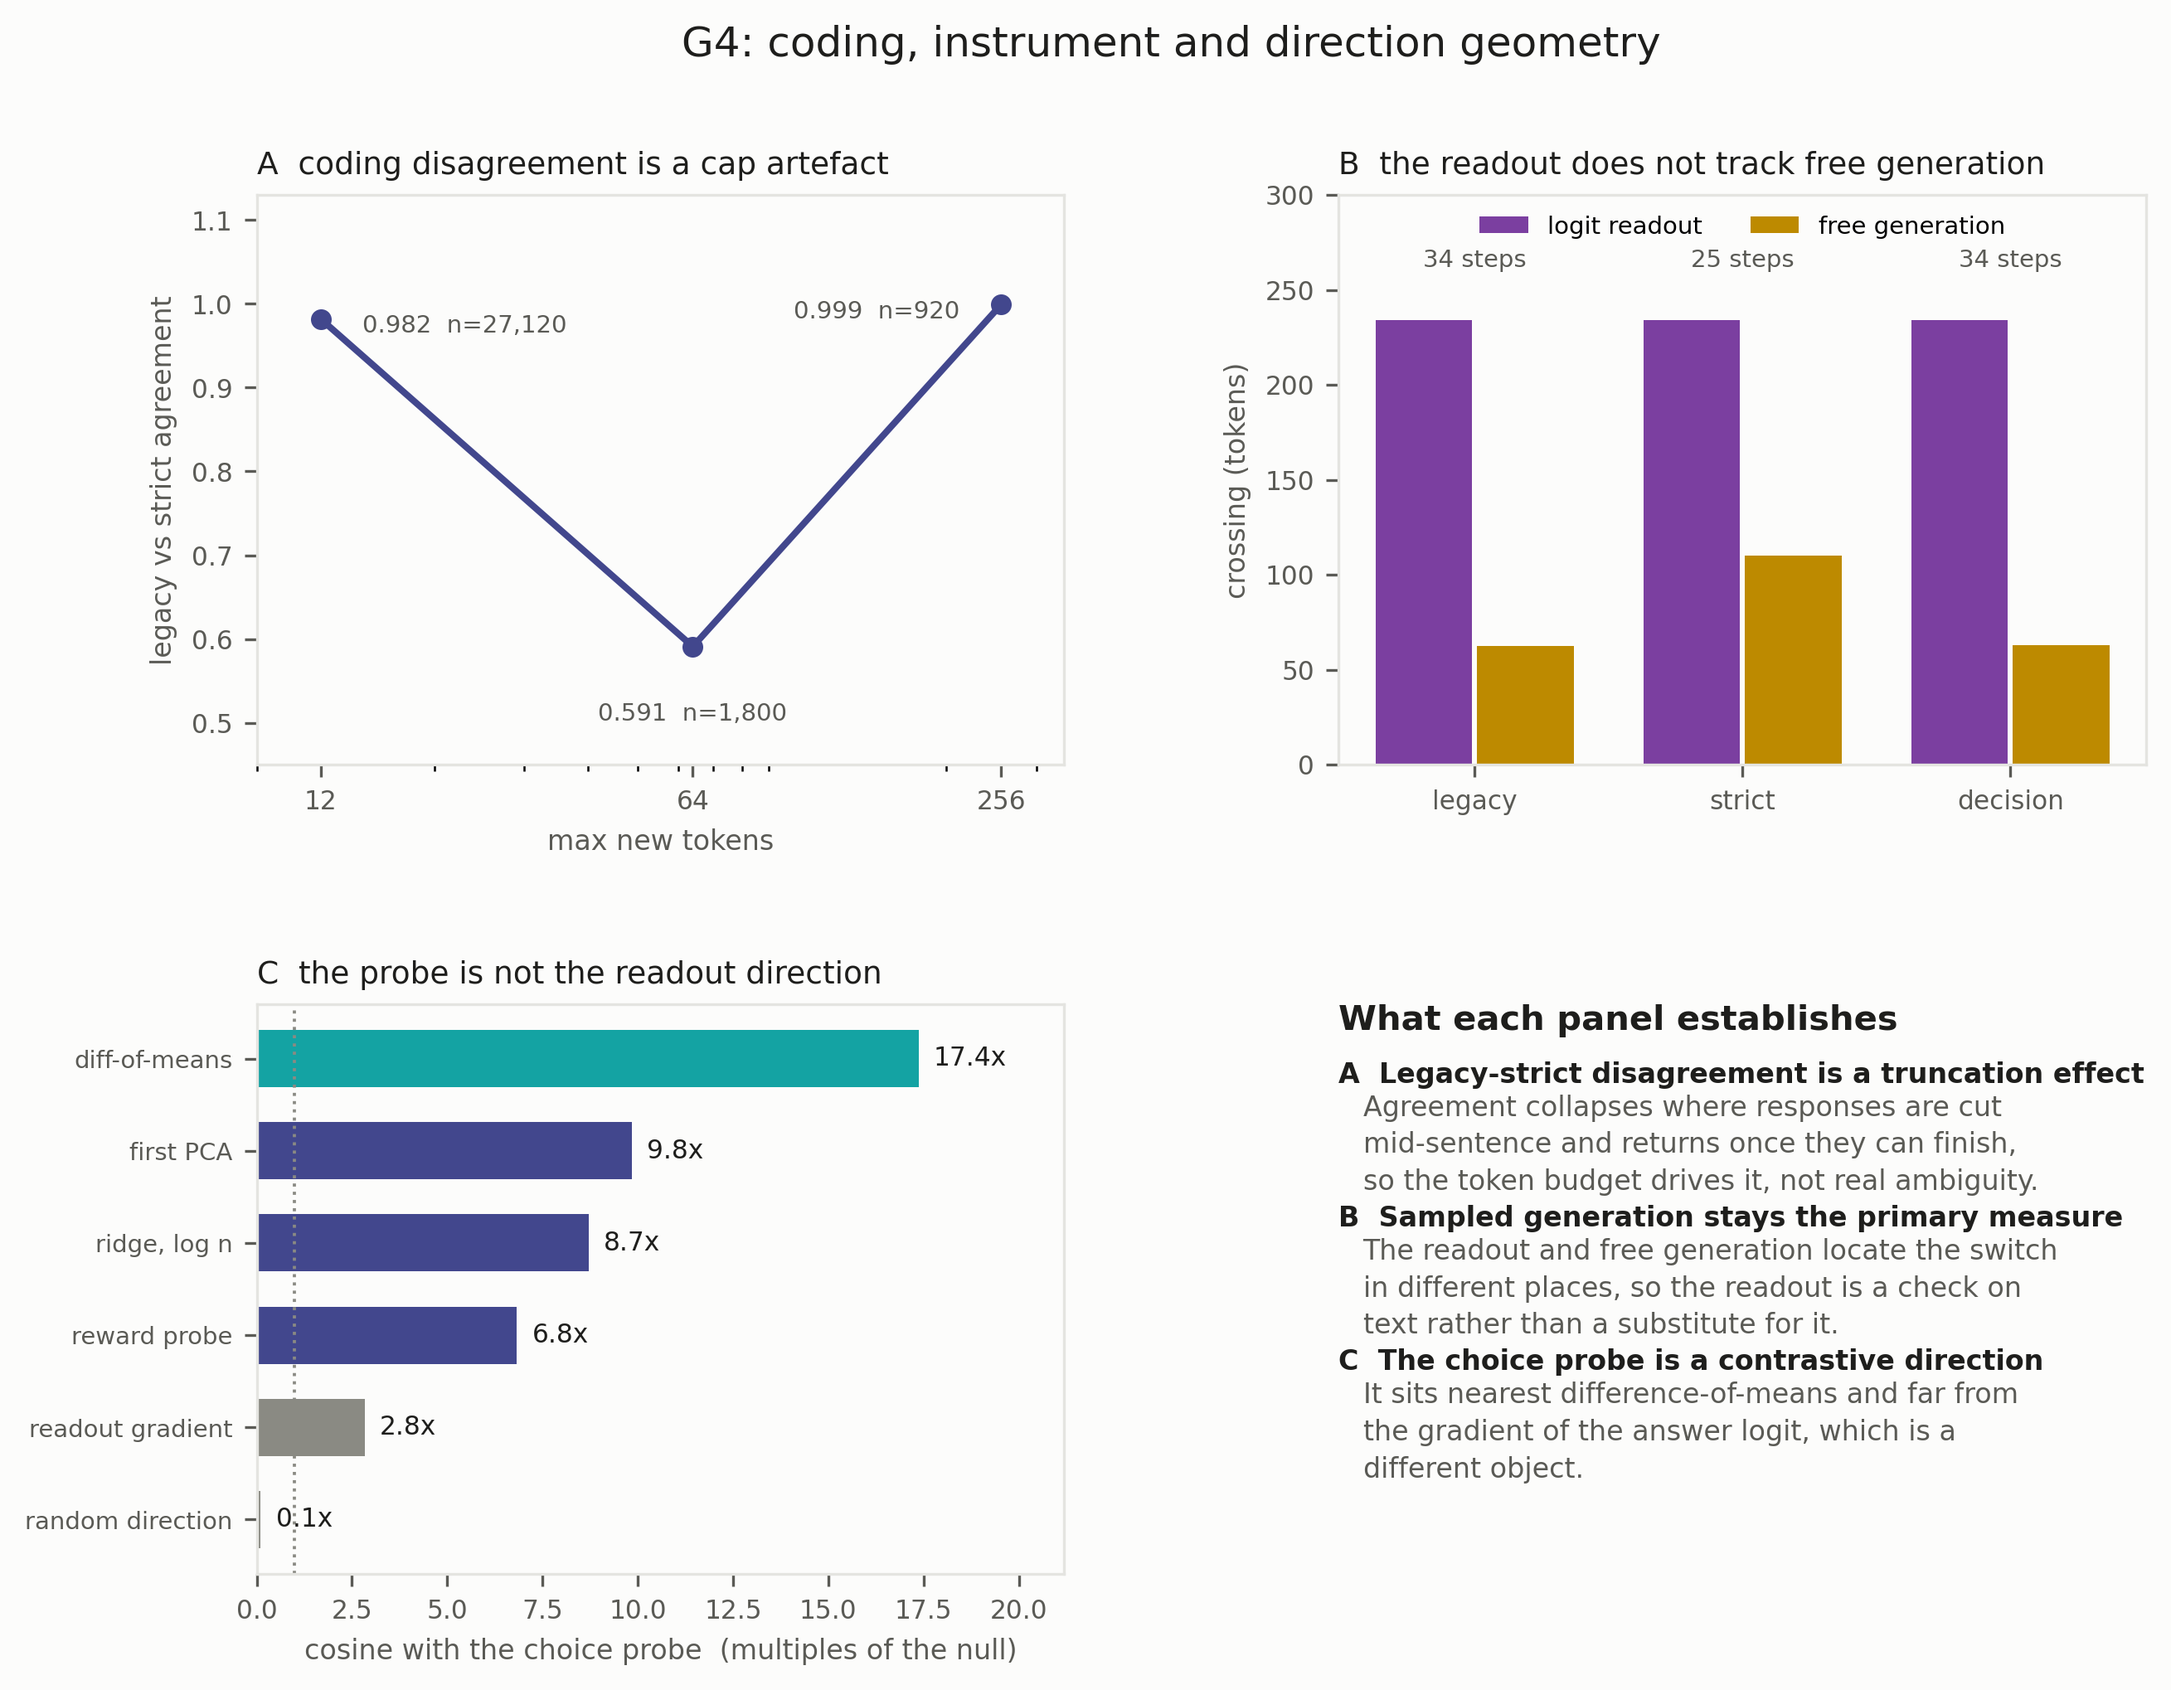
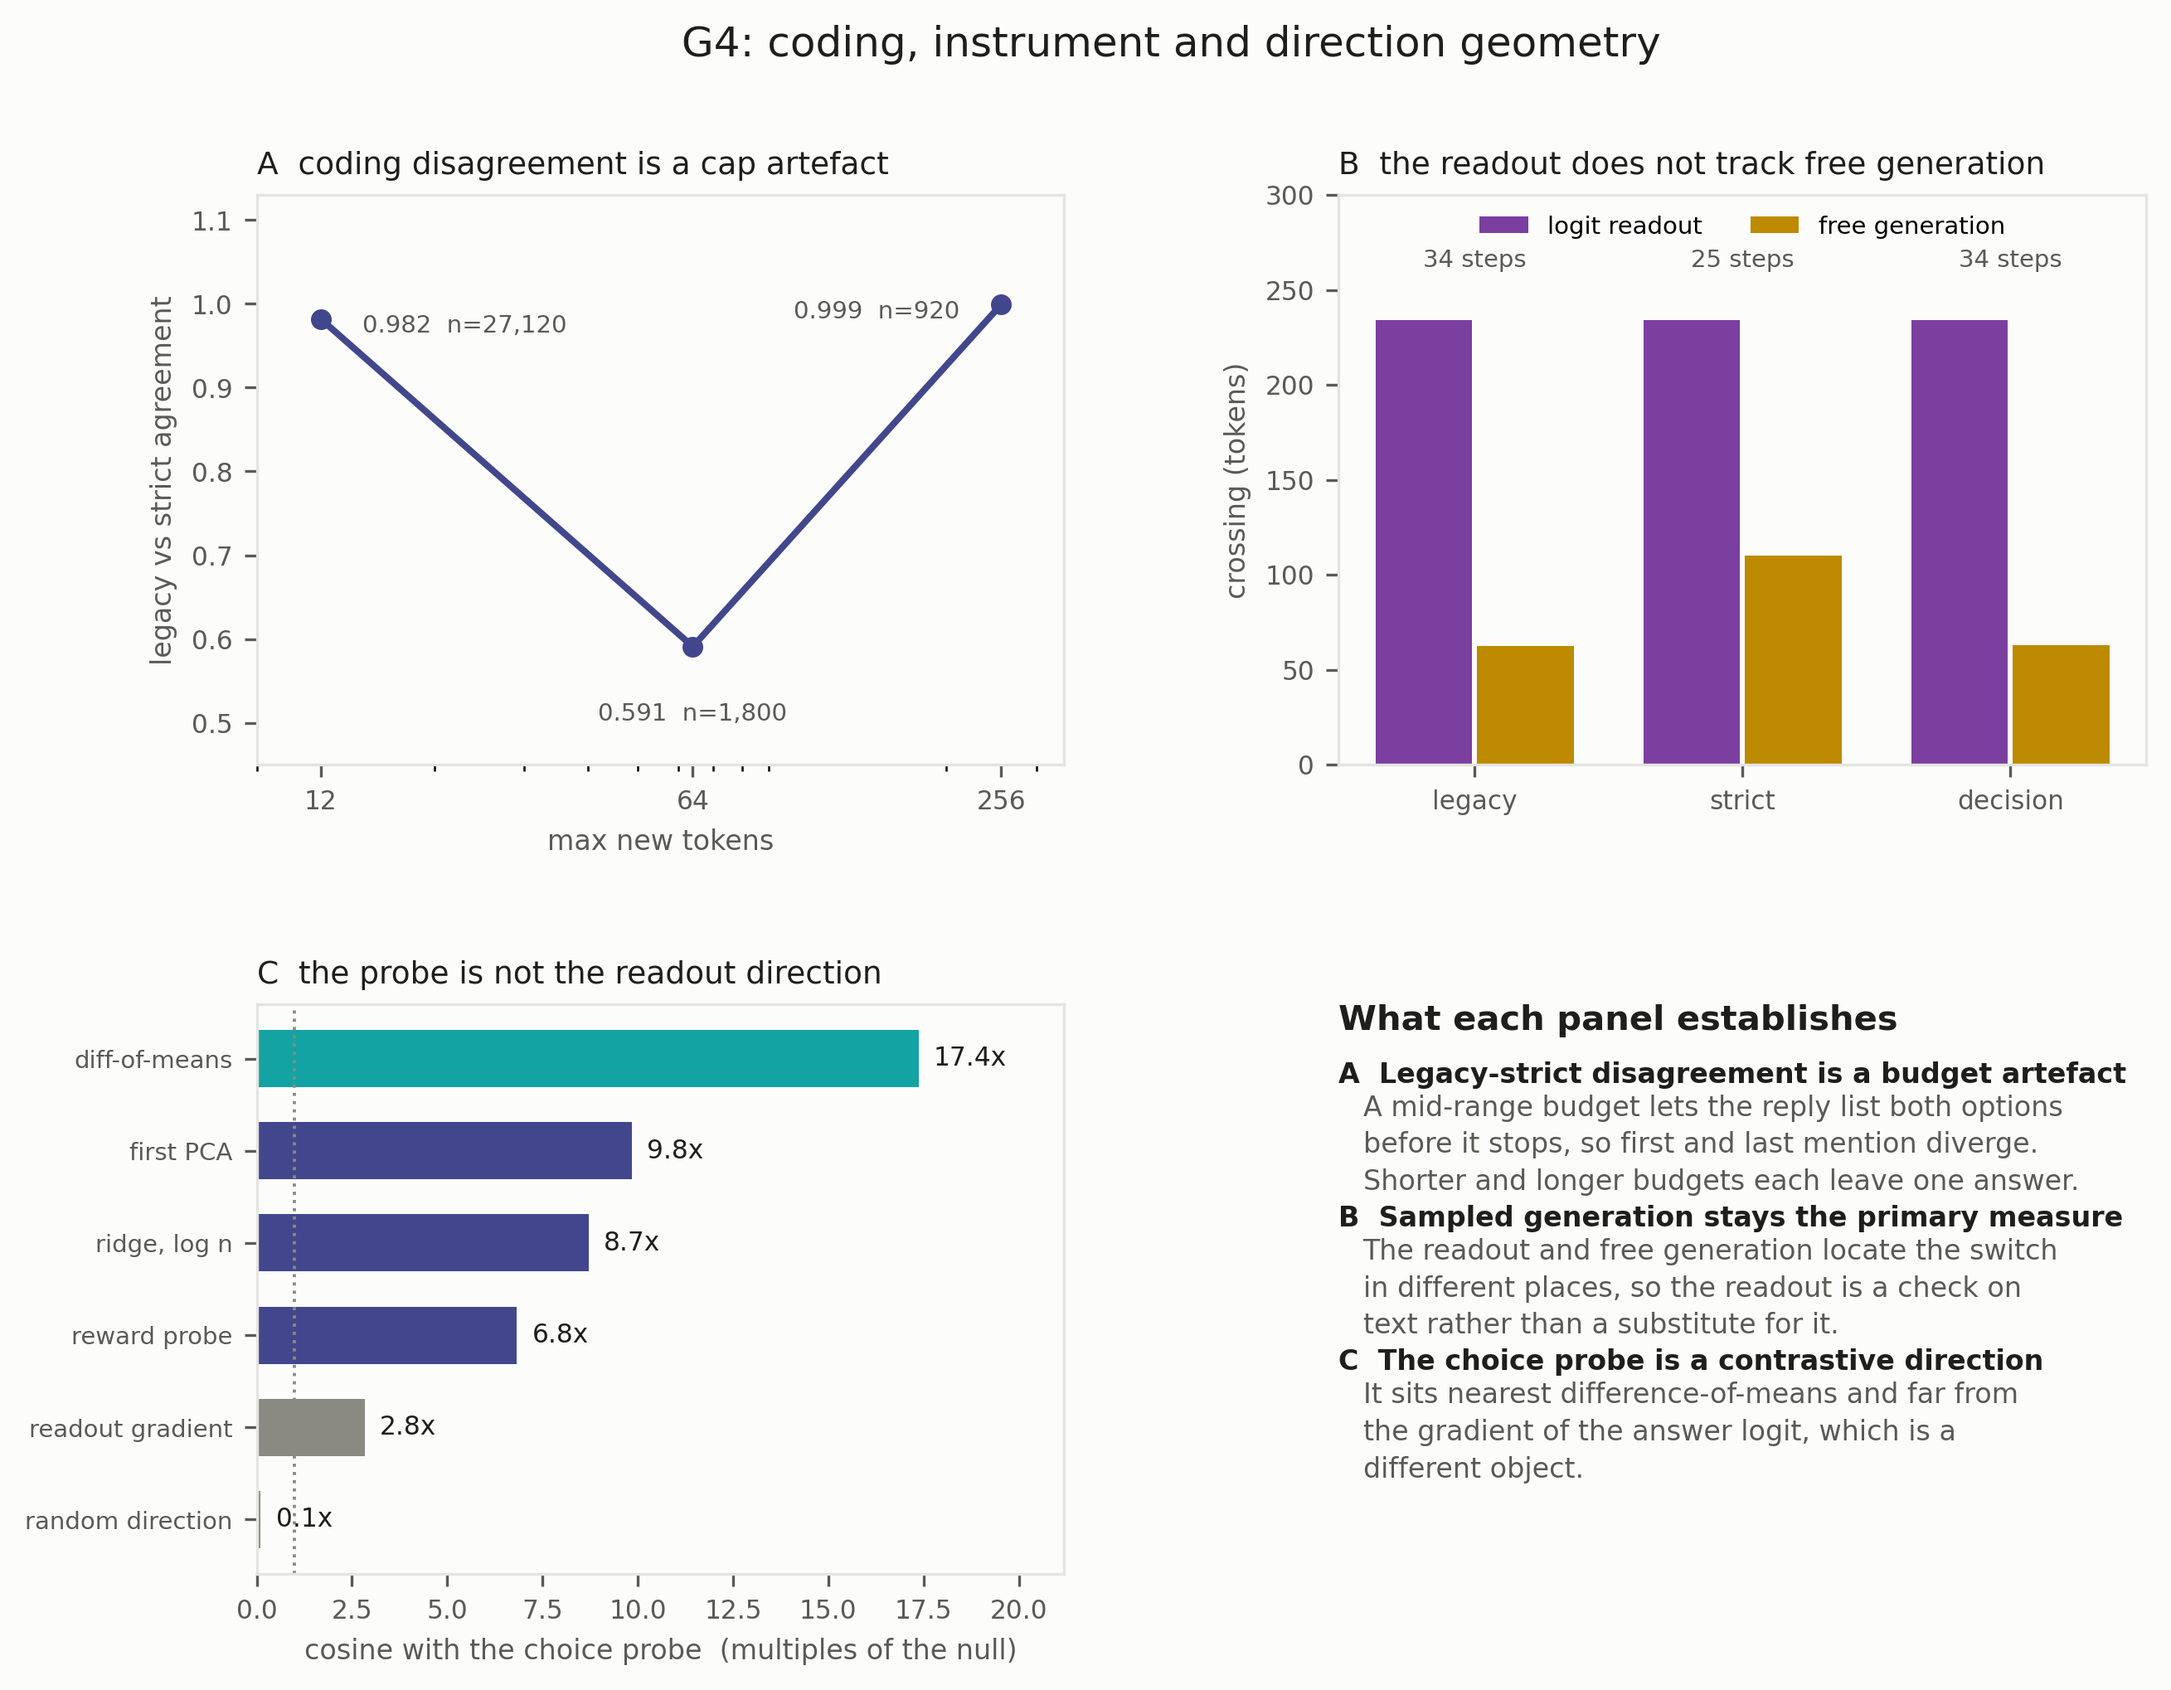
g4_summary panel A: note states the option-list mechanism, not truncation

Changed region(s): [[0.6188, 0.6183, 0.9901, 0.711]]

diff --git a/cv_bench/g4_figure.py b/cv_bench/g4_figure.py
@@ -139,10 +139,10 @@ def build():
     # findings rather than verdicts, since a column of answers all beginning
     # "No" reads as a rebuttal, which is not what these measurements are.
     items = [
-        ("A", "Legacy-strict disagreement is a truncation effect",
-         "Agreement collapses where responses are cut\n"
-         "mid-sentence and returns once they can finish,\n"
-         "so the token budget drives it, not real ambiguity."),
+        ("A", "Legacy-strict disagreement is a budget artefact",
+         "A mid-range budget lets the reply list both options\n"
+         "before it stops, so first and last mention diverge.\n"
+         "Shorter and longer budgets each leave one answer."),
         ("B", "Sampled generation stays the primary measure",
          "The readout and free generation locate the switch\n"
          "in different places, so the readout is a check on\n"

diff --git a/logs/DECISIONS.md b/logs/DECISIONS.md
@@ -1250,3 +1250,43 @@ interval reaches 0.3115 and was colliding with the corner note, and the rule lab
 y=0.205 to 0.235 to stay clear. Condition labels drop to zorder 3.5, above the dashed reference
 lines so their boxes still mask them but below the markers so a box never covers its own point,
 which it was doing to target40.
+
+## D88 — panel A's note corrected: the mechanism is the option list, not truncation (22 Sept)
+
+The authors asked whether panel A is an effect of responses being truncated. Measured rather
+than assumed, on the two caps that bracket the dip, both from `g2_lambda0/llama_chat*_lottery.jsonl`:
+
+    cap    n      looks cut off   mentions both labels   legacy-strict agreement
+     12   1800        0.680              0.000                  1.0000
+     64   1800        0.641              0.559                  0.5906
+
+Truncation is marginally HIGHER at 12 tokens and agreement there is perfect. Truncation
+therefore does not explain the dip. What changes is whether the severed text got far enough to
+name both options: at 12 tokens the reply is cut before the second option, so the two rules read
+the same single label by construction; at 64 it has echoed "1. Safe Option ... 2. Risky Option"
+and been cut before choosing, so first-mention and last-mention differ on 56% of trials.
+
+Being cut off is necessary (a completed reply states a choice and all three rules find it) and
+not sufficient. The note said the opposite:
+
+  was: "Agreement collapses where responses are cut mid-sentence and returns once they can
+        finish, so the token budget drives it, not real ambiguity."
+  now: "A mid-range budget lets the reply list both options before it stops, so first and last
+        mention diverge. Shorter and longer budgets each leave one answer."
+
+The claim line changes from "is a truncation effect" to "is a budget artefact". The panel's
+conclusion is unchanged and still correct: it is an artefact of the decoding budget, not real
+ambiguity about what the model chose. Only the stated mechanism was wrong. No data, no point
+and no axis changed; `figures/g4_summary.{pdf,png}` rebuilt. The word "truncation" now appears
+nowhere in `cv_bench/g4_figure.py`.
+
+STILL OPEN, and it blocks this panel from going in the paper. Its three points are hard-typed
+in `panel_c`:
+
+    pts = [(12, 0.982, "27,120"), (64, 0.591, "1,800"), (256, 0.999, "920")]
+
+They are not read from a file and are not in `MANIFEST.csv`, which is a rule 1 violation. The
+64-token point reconciles exactly against the source (0.5906, n=1,800). The 12-token point does
+not: the figure says 0.982 on n=27,120 while `llama_chat_lottery.jsonl` gives 1.0000 on n=576
+both-coded, so the figure's value comes from some larger aggregation not yet identified. Offered
+to the authors: recompute all three from files and register them. Not done yet.
